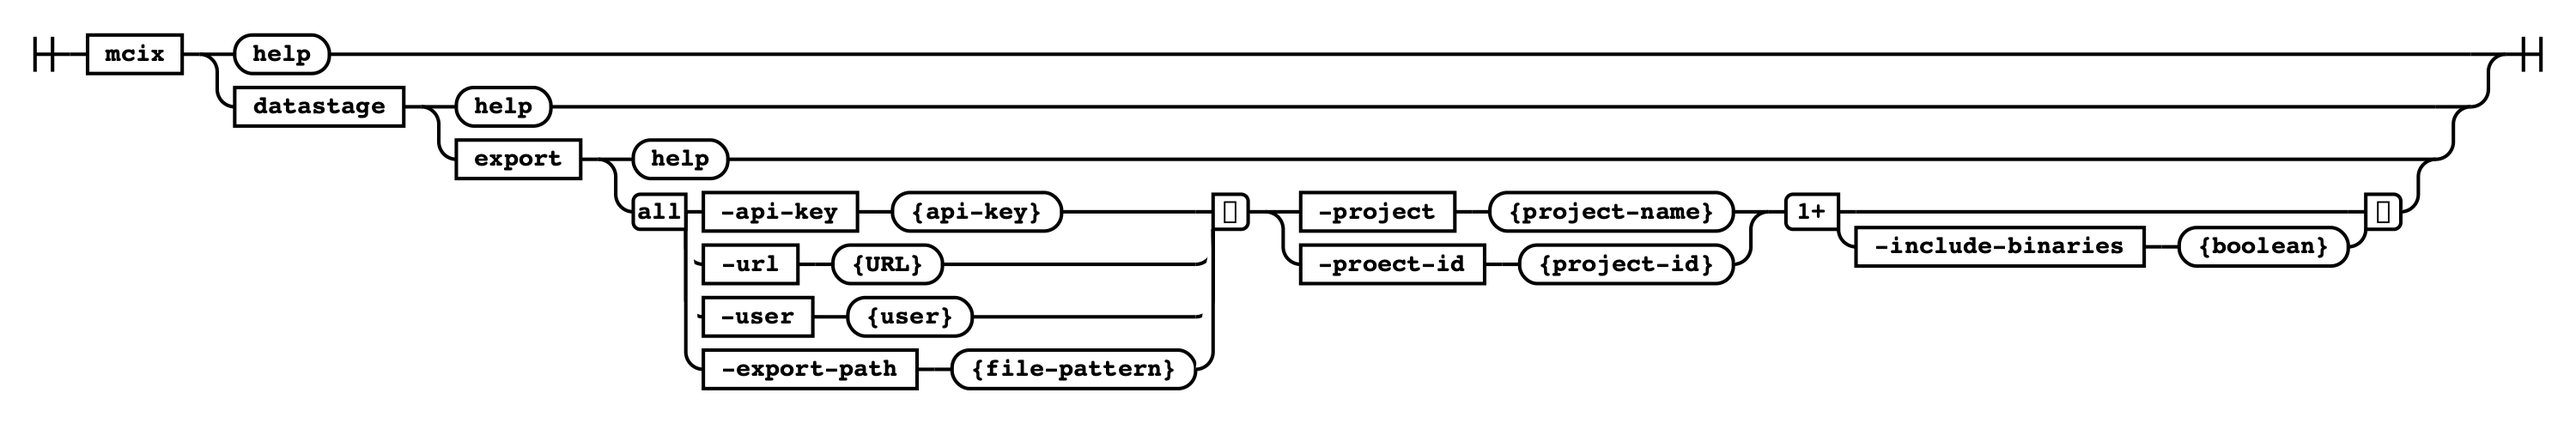
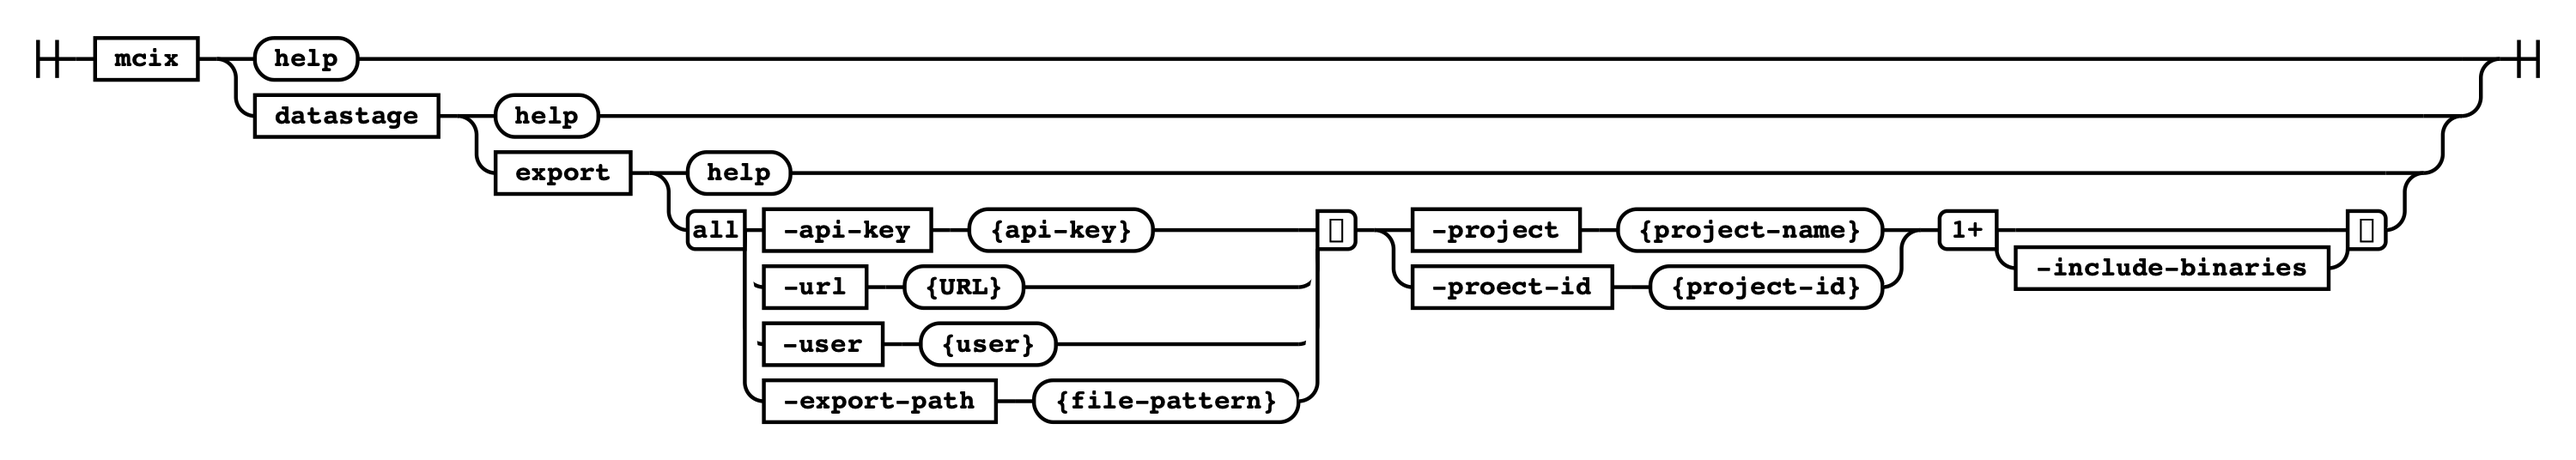
Update datastage export SVG diagram and refine include-binaries sequence in documentation

Changed region(s): [[0.0, 0.0609, 0.961, 0.9432], [0.961, 0.0913, 0.992, 0.1826], [0.961, 0.213, 0.992, 0.2434]]

diff --git a/docs/railroads/namespace/namespace_datastage.py b/docs/railroads/namespace/namespace_datastage.py
@@ -92,7 +92,7 @@ DATASTAGE_EXPORT = Diagram(
                             ),
                             MultipleChoice(0, 'any',
                                 Sequence(Skip()), 
-                                Sequence(NonTerminal('-include-binaries'), '{boolean}')
+                                Sequence(NonTerminal('-include-binaries'))
                             )
                         )
                     )
